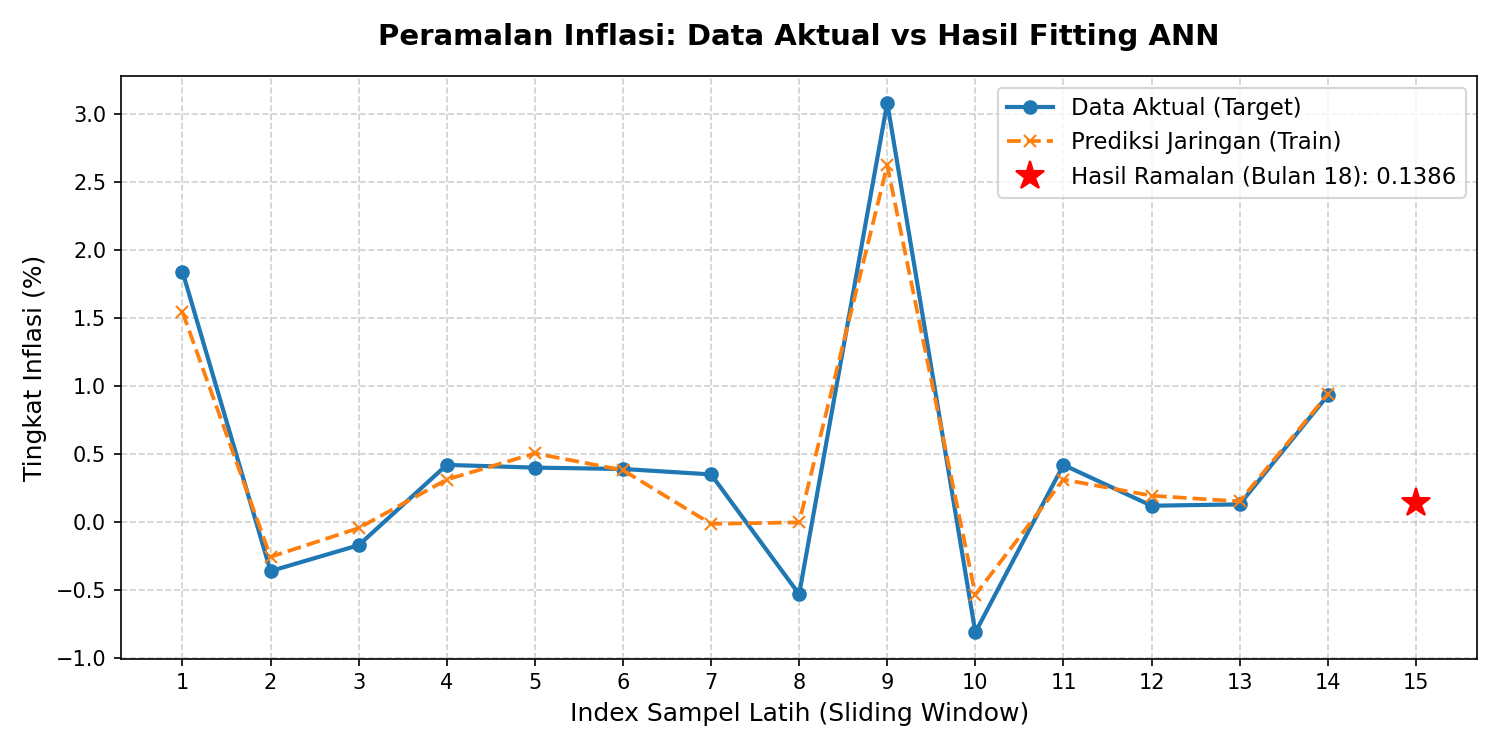
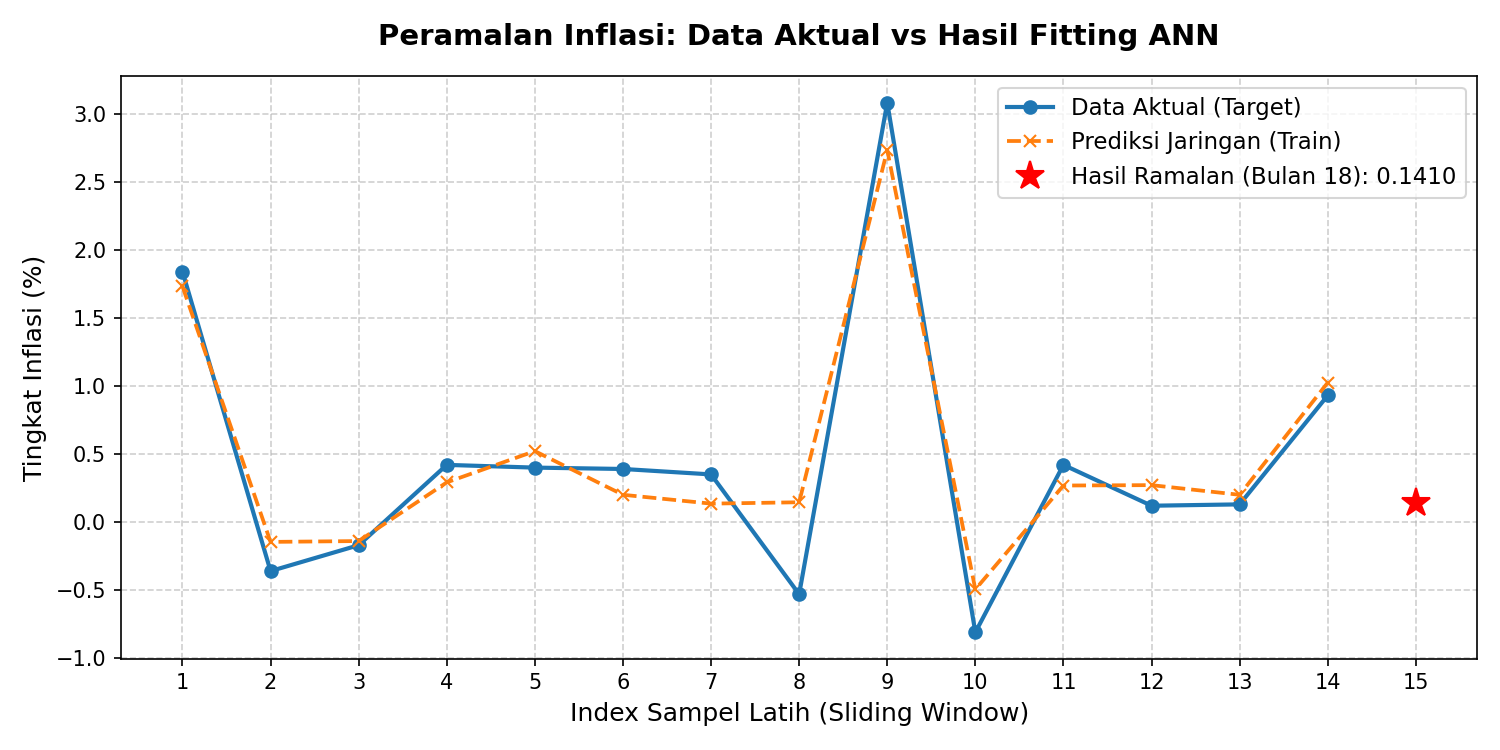
update result.md with complete c1 and c2 tables

diff --git a/generate_results.py b/generate_results.py
@@ -86,7 +86,7 @@ async def main():
             plt.savefig("ihk_forecast_chart.png", dpi=150)
             plt.close()
             
-            # Generate data table
+            # Generate IHK & Inflasi table
             months_labels = [
                 "Jan 2025", "Feb 2025", "Mar 2025", "Apr 2025", "Mei 2025", "Jun 2025",
                 "Jul 2025", "Ags 2025", "Sep 2025", "Okt 2025", "Nov 2025", "Des 2025",
@@ -95,11 +95,62 @@ async def main():
             inf_series = inf_data["historical_series"]
             ihk_series = ihk_data["historical_series"]
             
-            table_rows = ""
+            table_rows_general = ""
             for i in range(17):
                 status = "Historis (YoY)" if i < 12 else "Historis (Berjalan)"
-                table_rows += f"| {i+1} | {months_labels[i]} | `{inf_series[i]:.4f}%` | `{ihk_series[i]:.4f}` | {status} |\n"
-            table_rows += f"| 18 | **Jun 2026** | **`{inf_forecast:.4f}%`** | **`{ihk_forecast:.4f}`** | **Hasil Ramalan (ANN)** |\n"
+                table_rows_general += f"| {i+1} | {months_labels[i]} | `{inf_series[i]:.4f}%` | `{ihk_series[i]:.4f}` | {status} |\n"
+            table_rows_general += f"| 18 | **Jun 2026** | **`{inf_forecast:.4f}%`** | **`{ihk_forecast:.4f}`** | **Hasil Ramalan (ANN)** |\n"
+
+            # Commodity group lists
+            c1_names = [
+                "Makanan, Minuman dan Tembakau",
+                "Pakaian dan Alas Kaki",
+                "Perumahan, Air, Listrik dan Bahan Bakar Rumah Tangga",
+                "Perlengkapan, Peralatan dan Pemeliharaan Rutin Rumah Tangga",
+                "Kesehatan"
+            ]
+            c2_names = [
+                "Informasi, Komunikasi dan Jasa Keuangan",
+                "Transportasi",
+                "Rekreasi, Olahraga dan Budaya",
+                "Pendidikan",
+                "Penyediaan Makanan dan Minuman / Restoran",
+                "Perawatan Pribadi dan Jasa Lainnya"
+            ]
+
+            # Generate Commodity C1 Table
+            table_rows_c1 = ""
+            for i in range(17):
+                row_str = f"| {i+1} | {months_labels[i]} "
+                for name in c1_names:
+                    val = forecast["komoditas"][name]["historical_series"][i]
+                    row_str += f"| `{val:.4f}%` "
+                row_str += "|\n"
+                table_rows_c1 += row_str
+            
+            row_str_f = "| 18 | **Jun 2026** "
+            for name in c1_names:
+                val = forecast["komoditas"][name]["forecast_value"]
+                row_str_f += f"| **`{val:.4f}%`** "
+            row_str_f += "|\n"
+            table_rows_c1 += row_str_f
+
+            # Generate Commodity C2 Table
+            table_rows_c2 = ""
+            for i in range(17):
+                row_str = f"| {i+1} | {months_labels[i]} "
+                for name in c2_names:
+                    val = forecast["komoditas"][name]["historical_series"][i]
+                    row_str += f"| `{val:.4f}%` "
+                row_str += "|\n"
+                table_rows_c2 += row_str
+            
+            row_str_f = "| 18 | **Jun 2026** "
+            for name in c2_names:
+                val = forecast["komoditas"][name]["forecast_value"]
+                row_str_f += f"| **`{val:.4f}%`** "
+            row_str_f += "|\n"
+            table_rows_c2 += row_str_f
 
             # Write result.md
             print("Menulis dokumen hasil ke result.md...")
@@ -118,17 +169,37 @@ Berikut adalah ringkasan hasil pengujian model Jaringan Saraf Tiruan (ANN) yang 
 
 ---
 
-## 2. Tabel Data Input Historis & Hasil Peramalan
+## 2. Tabel Data Input Historis & Hasil Peramalan (Inflasi & IHK)
 
-Tabel di bawah ini menampilkan 17 data masuk (input historis) yang digunakan untuk melatih model ANN, diikuti oleh hasil peramalan untuk Bulan ke-18 (Juni 2026):
+Tabel di bawah ini menampilkan 17 data masuk (input historis) yang digunakan untuk melatih model ANN, diikuti oleh hasil peramalan untuk Bulan ke-18 (Juni 2026) pada variabel utama:
 
 | Bulan Ke- | Periode | Data Masuk: Inflasi | Data Masuk: IHK | Status Data |
 | :---: | :---: | :---: | :---: | :--- |
-{table_rows}
+{table_rows_general}
 
 ---
 
-## 3. Grafik Hasil Pelatihan (Loss Function)
+## 3. Tabel Data Input Historis & Hasil Peramalan Komoditas (Kelompok I)
+
+Tabel di bawah ini menampilkan data masuk historis (17 bulan) dan hasil peramalan (Bulan 18) untuk Kelompok Komoditas Utama bagian I:
+
+| Bulan Ke- | Periode | Makanan & Tembakau | Pakaian & Alas Kaki | Perumahan & Energi | Perlengkapan RT | Kesehatan |
+| :---: | :---: | :---: | :---: | :---: | :---: | :---: |
+{table_rows_c1}
+
+---
+
+## 4. Tabel Data Input Historis & Hasil Peramalan Komoditas (Kelompok II)
+
+Tabel di bawah ini menampilkan data masuk historis (17 bulan) dan hasil peramalan (Bulan 18) untuk Kelompok Komoditas Utama bagian II:
+
+| Bulan Ke- | Periode | Info & Keuangan | Transportasi | Rekreasi & Budaya | Pendidikan | Restoran | Perawatan & Jasa |
+| :---: | :---: | :---: | :---: | :---: | :---: | :---: | :---: |
+{table_rows_c2}
+
+---
+
+## 5. Grafik Hasil Pelatihan (Loss Function)
 
 Grafik di bawah menunjukkan kurva penurunan tingkat error (**Mean Squared Error / MSE**) model Inflasi dan IHK selama 150 epoch pelatihan. Loss yang mengecil mendekati nol menandakan model berhasil belajar secara optimal.
 
@@ -136,7 +207,7 @@ Grafik di bawah menunjukkan kurva penurunan tingkat error (**Mean Squared Error 
 
 ---
 
-## 4. Perbandingan Data Aktual vs Prediksi Model
+## 6. Perbandingan Data Aktual vs Prediksi Model
 
 Grafik di bawah ini membandingkan data aktual historis dengan hasil fitting (prediksi) model ANN saat fase latihan, serta menampilkan proyeksi nilai hasil ramalan untuk bulan ke-18.
 
@@ -148,9 +219,9 @@ Grafik di bawah ini membandingkan data aktual historis dengan hasil fitting (pre
 
 ---
 
-## 5. Hasil Peramalan Kelompok Komoditas Utama
+## 7. Hasil Ringkasan Peramalan Komoditas
 
-Berikut adalah estimasi nilai inflasi untuk 11 kelompok komoditas utama di **{res['kota']}** pada bulan ke-18:
+Berikut adalah estimasi nilai inflasi untuk 11 kelompok komoditas utama di **{res['kota']}** pada bulan ke-18 beserta tingkat MSE loss-nya:
 
 | Kelompok Komoditas | Nilai Ramalan (%) | Final Training Loss (MSE) |
 | :--- | :---: | :---: |

diff --git a/result.md b/result.md
@@ -8,14 +8,14 @@ Berikut adalah ringkasan hasil pengujian model Jaringan Saraf Tiruan (ANN) yang 
 
 | Variabel | Nilai Ramalan | Nilai Terakhir (Mei 2026) | Trend / Keterangan |
 | :--- | :---: | :---: | :--- |
-| **Inflasi** | `0.1386%` | `0.9300%` | Turun |
-| **IHK** | `113.2400` | `113.7800` | Turun |
+| **Inflasi** | `0.1410%` | `0.9300%` | Turun |
+| **IHK** | `113.5586` | `113.7800` | Turun |
 
 ---
 
-## 2. Tabel Data Input Historis & Hasil Peramalan
+## 2. Tabel Data Input Historis & Hasil Peramalan (Inflasi & IHK)
 
-Tabel di bawah ini menampilkan 17 data masuk (input historis) yang digunakan untuk melatih model ANN, diikuti oleh hasil peramalan untuk Bulan ke-18 (Juni 2026):
+Tabel di bawah ini menampilkan 17 data masuk (input historis) yang digunakan untuk melatih model ANN, diikuti oleh hasil peramalan untuk Bulan ke-18 (Juni 2026) pada variabel utama:
 
 | Bulan Ke- | Periode | Data Masuk: Inflasi | Data Masuk: IHK | Status Data |
 | :---: | :---: | :---: | :---: | :--- |
@@ -36,12 +36,68 @@ Tabel di bawah ini menampilkan 17 data masuk (input historis) yang digunakan unt
 | 15 | Mar 2026 | `0.1200%` | `112.5800` | Historis (Berjalan) |
 | 16 | Apr 2026 | `0.1300%` | `112.7300` | Historis (Berjalan) |
 | 17 | Mei 2026 | `0.9300%` | `113.7800` | Historis (Berjalan) |
-| 18 | **Jun 2026** | **`0.1386%`** | **`113.2400`** | **Hasil Ramalan (ANN)** |
+| 18 | **Jun 2026** | **`0.1410%`** | **`113.5586`** | **Hasil Ramalan (ANN)** |
 
 
 ---
 
-## 3. Grafik Hasil Pelatihan (Loss Function)
+## 3. Tabel Data Input Historis & Hasil Peramalan Komoditas (Kelompok I)
+
+Tabel di bawah ini menampilkan data masuk historis (17 bulan) dan hasil peramalan (Bulan 18) untuk Kelompok Komoditas Utama bagian I:
+
+| Bulan Ke- | Periode | Makanan & Tembakau | Pakaian & Alas Kaki | Perumahan & Energi | Perlengkapan RT | Kesehatan |
+| :---: | :---: | :---: | :---: | :---: | :---: | :---: |
+| 1 | Jan 2025 | `2.7800%` | `0.1300%` | `-7.9500%` | `0.1700%` | `0.0000%` |
+| 2 | Feb 2025 | `-0.4700%` | `-0.9400%` | `-3.6600%` | `0.1600%` | `0.3000%` |
+| 3 | Mar 2025 | `0.6500%` | `0.6300%` | `7.0900%` | `-0.5000%` | `0.1600%` |
+| 4 | Apr 2025 | `1.7600%` | `0.7500%` | `5.3300%` | `-0.2000%` | `0.3900%` |
+| 5 | Mei 2025 | `-1.1200%` | `-0.1300%` | `0.1900%` | `-0.2100%` | `0.0000%` |
+| 6 | Jun 2025 | `-0.6000%` | `0.1300%` | `-0.0100%` | `0.4500%` | `-0.0200%` |
+| 7 | Jul 2025 | `1.2200%` | `3.2500%` | `0.0000%` | `-0.0300%` | `0.4200%` |
+| 8 | Ags 2025 | `1.5400%` | `-0.5700%` | `0.0000%` | `0.1000%` | `1.0100%` |
+| 9 | Sep 2025 | `0.8500%` | `-0.8700%` | `-0.0200%` | `0.0100%` | `0.9100%` |
+| 10 | Okt 2025 | `-0.4700%` | `0.1100%` | `0.0000%` | `0.1700%` | `0.0000%` |
+| 11 | Nov 2025 | `-1.6400%` | `-2.4100%` | `0.0000%` | `-0.3500%` | `0.7100%` |
+| 12 | Des 2025 | `7.0200%` | `-0.1000%` | `1.9500%` | `0.0100%` | `-0.2400%` |
+| 13 | Jan 2026 | `-2.8600%` | `-0.0200%` | `-1.7500%` | `0.0600%` | `0.4500%` |
+| 14 | Feb 2026 | `0.8600%` | `0.3800%` | `-0.4000%` | `-0.0100%` | `-0.0300%` |
+| 15 | Mar 2026 | `0.1600%` | `-2.9000%` | `0.0200%` | `-0.2000%` | `-0.0200%` |
+| 16 | Apr 2026 | `-0.6800%` | `-0.0500%` | `0.5400%` | `1.6300%` | `-0.0600%` |
+| 17 | Mei 2026 | `1.8900%` | `0.0400%` | `1.0700%` | `0.3100%` | `0.1600%` |
+| 18 | **Jun 2026** | **`-0.2949%`** | **`0.4674%`** | **`0.1232%`** | **`0.0017%`** | **`0.5690%`** |
+
+
+---
+
+## 4. Tabel Data Input Historis & Hasil Peramalan Komoditas (Kelompok II)
+
+Tabel di bawah ini menampilkan data masuk historis (17 bulan) dan hasil peramalan (Bulan 18) untuk Kelompok Komoditas Utama bagian II:
+
+| Bulan Ke- | Periode | Info & Keuangan | Transportasi | Rekreasi & Budaya | Pendidikan | Restoran | Perawatan & Jasa |
+| :---: | :---: | :---: | :---: | :---: | :---: | :---: | :---: |
+| 1 | Jan 2025 | `-0.0200%` | `1.1100%` | `-0.9900%` | `0.0000%` | `0.1300%` | `0.6200%` |
+| 2 | Feb 2025 | `0.0000%` | `1.3700%` | `0.0000%` | `0.0000%` | `0.0300%` | `2.0700%` |
+| 3 | Mar 2025 | `0.0000%` | `0.1200%` | `-0.0200%` | `0.0000%` | `0.0300%` | `1.9800%` |
+| 4 | Apr 2025 | `-0.2800%` | `0.2600%` | `0.3700%` | `0.0000%` | `0.0000%` | `4.8300%` |
+| 5 | Mei 2025 | `0.3700%` | `0.1900%` | `-0.0100%` | `0.0000%` | `0.0000%` | `-1.2600%` |
+| 6 | Jun 2025 | `-0.3300%` | `-0.3600%` | `0.0000%` | `0.0000%` | `0.0000%` | `0.6600%` |
+| 7 | Jul 2025 | `0.0000%` | `0.0500%` | `0.0000%` | `-2.0100%` | `0.1500%` | `-0.1700%` |
+| 8 | Ags 2025 | `0.0000%` | `-0.3400%` | `0.0100%` | `0.0900%` | `0.1200%` | `-0.2200%` |
+| 9 | Sep 2025 | `0.0000%` | `-0.0100%` | `0.0000%` | `0.0600%` | `0.1200%` | `2.2800%` |
+| 10 | Okt 2025 | `0.0500%` | `0.6600%` | `0.0000%` | `0.0000%` | `0.0000%` | `5.6800%` |
+| 11 | Nov 2025 | `-0.0200%` | `0.3600%` | `0.0400%` | `0.0000%` | `0.1200%` | `0.3400%` |
+| 12 | Des 2025 | `0.0000%` | `0.0700%` | `0.0000%` | `0.0000%` | `4.3700%` | `2.7400%` |
+| 13 | Jan 2026 | `0.1000%` | `-0.1400%` | `0.0000%` | `0.0000%` | `0.9600%` | `3.8100%` |
+| 14 | Feb 2026 | `0.4100%` | `-0.0400%` | `0.0000%` | `0.0000%` | `0.1500%` | `2.5700%` |
+| 15 | Mar 2026 | `0.6700%` | `0.8500%` | `0.0000%` | `0.0000%` | `1.7100%` | `-1.2900%` |
+| 16 | Apr 2026 | `1.8300%` | `1.9400%` | `1.6400%` | `0.0000%` | `0.4800%` | `-2.4300%` |
+| 17 | Mei 2026 | `0.6400%` | `0.0200%` | `0.0000%` | `0.0000%` | `1.5300%` | `-0.4400%` |
+| 18 | **Jun 2026** | **`2.9473%`** | **`0.0167%`** | **`0.1955%`** | **`-0.2336%`** | **`0.6839%`** | **`4.7027%`** |
+
+
+---
+
+## 5. Grafik Hasil Pelatihan (Loss Function)
 
 Grafik di bawah menunjukkan kurva penurunan tingkat error (**Mean Squared Error / MSE**) model Inflasi dan IHK selama 150 epoch pelatihan. Loss yang mengecil mendekati nol menandakan model berhasil belajar secara optimal.
 
@@ -49,7 +105,7 @@ Grafik di bawah menunjukkan kurva penurunan tingkat error (**Mean Squared Error 
 
 ---
 
-## 4. Perbandingan Data Aktual vs Prediksi Model
+## 6. Perbandingan Data Aktual vs Prediksi Model
 
 Grafik di bawah ini membandingkan data aktual historis dengan hasil fitting (prediksi) model ANN saat fase latihan, serta menampilkan proyeksi nilai hasil ramalan untuk bulan ke-18.
 
@@ -61,20 +117,20 @@ Grafik di bawah ini membandingkan data aktual historis dengan hasil fitting (pre
 
 ---
 
-## 5. Hasil Peramalan Kelompok Komoditas Utama
+## 7. Hasil Ringkasan Peramalan Komoditas
 
-Berikut adalah estimasi nilai inflasi untuk 11 kelompok komoditas utama di **KOTA BANDA ACEH** pada bulan ke-18:
+Berikut adalah estimasi nilai inflasi untuk 11 kelompok komoditas utama di **KOTA BANDA ACEH** pada bulan ke-18 beserta tingkat MSE loss-nya:
 
 | Kelompok Komoditas | Nilai Ramalan (%) | Final Training Loss (MSE) |
 | :--- | :---: | :---: |
-| Makanan, Minuman dan Tembakau | `-0.1029%` | `0.010636` |
-| Pakaian dan Alas Kaki | `-0.0585%` | `0.029581` |
-| Perumahan, Air, Listrik dan Bahan Bakar Rumah Tangga | `0.0963%` | `0.021069` |
-| Perlengkapan, Peralatan dan Pemeliharaan Rutin Rumah Tangga | `0.0568%` | `0.054866` |
-| Kesehatan | `0.5475%` | `0.010730` |
-| Informasi, Komunikasi dan Jasa Keuangan | `3.2664%` | `0.006686` |
-| Transportasi | `0.2078%` | `0.029737` |
-| Rekreasi, Olahraga dan Budaya | `0.1754%` | `0.065199` |
-| Pendidikan | `-0.1953%` | `0.064247` |
-| Penyediaan Makanan dan Minuman / Restoran | `0.7307%` | `0.055138` |
-| Perawatan Pribadi dan Jasa Lainnya | `1.7500%` | `0.024735` |
+| Makanan, Minuman dan Tembakau | `-0.2949%` | `0.027368` |
+| Pakaian dan Alas Kaki | `0.4674%` | `0.048991` |
+| Perumahan, Air, Listrik dan Bahan Bakar Rumah Tangga | `0.1232%` | `0.011980` |
+| Perlengkapan, Peralatan dan Pemeliharaan Rutin Rumah Tangga | `0.0017%` | `0.049269` |
+| Kesehatan | `0.5690%` | `0.038873` |
+| Informasi, Komunikasi dan Jasa Keuangan | `2.9473%` | `0.034496` |
+| Transportasi | `0.0167%` | `0.024450` |
+| Rekreasi, Olahraga dan Budaya | `0.1955%` | `0.065174` |
+| Pendidikan | `-0.2336%` | `0.063183` |
+| Penyediaan Makanan dan Minuman / Restoran | `0.6839%` | `0.065598` |
+| Perawatan Pribadi dan Jasa Lainnya | `4.7027%` | `0.015695` |
